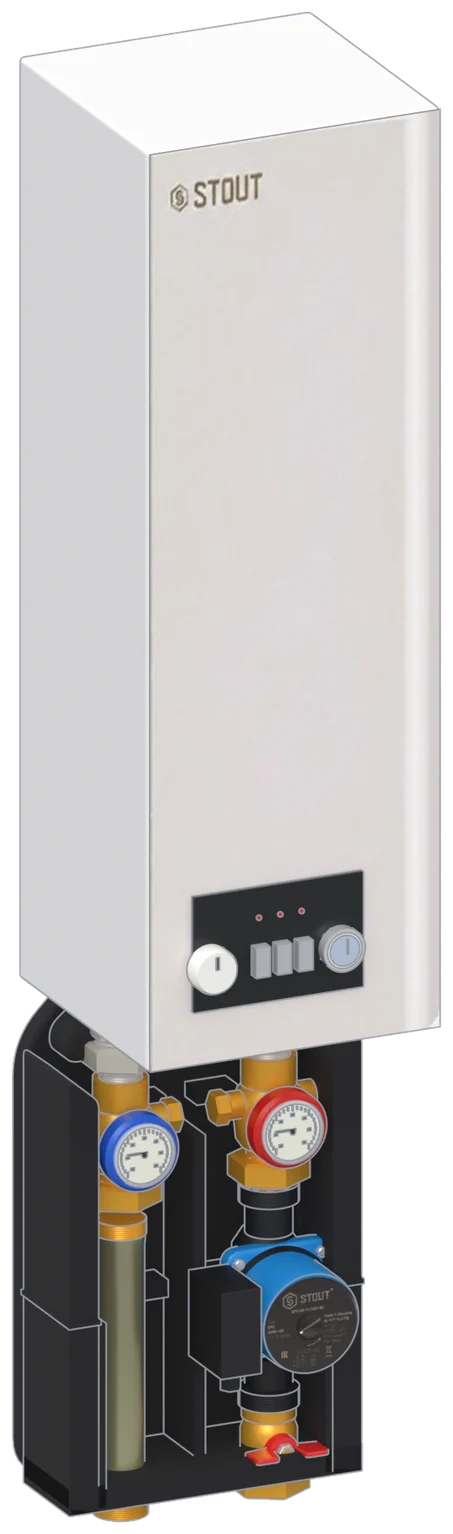
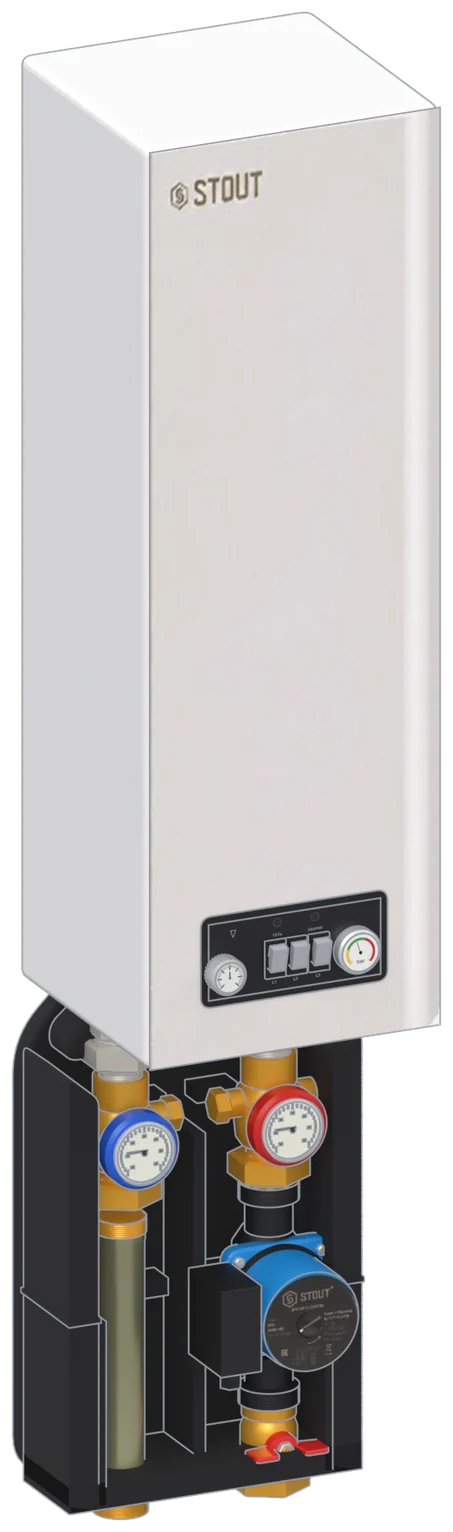
Схема POLIS: панель управления по фронтальному чертежу паспорта (плита 157x74, ручка, клавиши L1-L3, манометр с зонами, гермовводы), скруглённый корпус; кадры polis и polis_r пересобраны

diff --git a/tools/render_boiler_node.py b/tools/render_boiler_node.py
@@ -45,6 +45,10 @@ import bpy
 _argv = sys.argv[sys.argv.index('--') + 1:]
 OUT, VAR = _argv[0], _argv[1]
 TAG = 'boiler_' + VAR
+# HC_FRONT=1 — вид строго спереди (лист сверки с фото каталога, в кадры сметы не идёт)
+if os.environ.get('HC_FRONT'):
+    import blender_parts as _bp
+    _bp.VIEW_DIR = (0.0, -1.0, 0.0001)
 # «…_rm» — смета ROMMER: кран RBV-0004 с красной бабочкой (фото каталога RBV-0004-2210220), остальное то же
 RM = VAR.endswith('_rm')
 VAR = VAR[:-3] if RM else VAR
@@ -499,29 +503,36 @@ def boiler_polis(zb):
     part('mf')
     m = mat('bwhite', rough=0.35, coat=0.4)
     yr = YW - 0.012
-    plan = rounded([(0.0, yr - (D_ - 0.012)), (W_, yr - (D_ - 0.012)), (W_, yr), (0.0, yr)], 0.006, seg=4)
-    prism('корпус котла', plan, H_, m, Matrix.Translation(Vector((0, 0, zb + H_ / 2))), bevel=0.003)
+    plan = rounded([(0.0, yr - (D_ - 0.012)), (W_, yr - (D_ - 0.012)), (W_, yr), (0.0, yr)], 0.012, seg=6)
+    prism('корпус котла', plan, H_, m, Matrix.Translation(Vector((0, 0, zb + H_ / 2))), bevel=0.006)
     yf = yr - (D_ - 0.012)
     photo_quad('фасад POLIS', os.path.join(TEXD, 'SEB-5101_front.png'), (0, 0, 380, 1154), (W_ / 2, yf - 0.0008, zb + H_ / 2),
                TO_XZ, W_ - 0.002, H_ - 0.002, (380, 1154))
     marks['mf'] = (W_ * 0.35, yf, zb + H_ * 0.55)
-    # панель управления (паспорт, рис. 1 и 10; фото каталога): чёрная рамка, слева ручка термостата, три клавиши
-    # переключателя ступеней мощности, справа манометр
+    # панель управления (паспорт, рис. 1 и 10; фото каталога): плита с надписями — наклейка из tools/make_boiler_faces.py,
+    # ручка термостата, три клавиши, манометр — объёмные детали с нарисованными шкалами
     yp = yf - 0.0008
-    blk = mat('bpanel', rough=0.4, coat=0.2)
-    pz = zb + 0.092
-    box('панель управления', (0.143, 0.004, 0.094), blk, (0.108, yp - 0.002, pz))
-    zk = zb + 0.081
-    lathe('ручка термостата', [(0.0, 0), (0.0185, 0), (0.0185, 0.012), (0.0165, 0.016), (0.0, 0.016)], mat('dial', rough=0.45),
-          (0.049, yp - 0.004, zk), '-Y', segs=48, ribs=(24, 0.05, 0.001, 0.010))
-    box('метка ручки', (0.0025, 0.0006, 0.010), mat('logo', rough=0.4), (0.049, yp - 0.0206, zk + 0.008))
-    for k, x in enumerate((0.091, 0.109, 0.127)):
-        box('клавиша %d' % (k + 1), (0.012, 0.009, 0.024), mat('grey', rough=0.45), (x, yp - 0.0085, zk))
-        lathe('индикатор %d' % (k + 1), [(0.0, 0), (0.0020, 0), (0.0020, 0.0012)], mat('redring', rough=0.4), (x, yp - 0.0042, zk + 0.034), '-Y', segs=12)
-    lathe('манометр', [(0.0, 0), (0.0175, 0), (0.0175, 0.010), (0.0, 0.010)], M_CHROME(), (0.159, yp - 0.004, zk), '-Y', segs=48)
-    lathe('шкала манометра', [(0.0, 0), (0.0145, 0)], mat('dial', rough=0.3), (0.159, yp - 0.0143, zk), '-Y', segs=48)
-    box('стрелка манометра', (0.0012, 0.0006, 0.012), mat('logo', rough=0.4), (0.1612, yp - 0.0147, zk + 0.003))
-    lathe('зелёная зона', [(0.0095, 0), (0.0125, 0)], mat('bscreen', rough=0.4), (0.159, yp - 0.0146, zk), '-Y', segs=48)
+    zt = zb + 0.1187                                    # верх плиты (фронтальный чертёж паспорта, рис. 10: плита 157 x 74, низ в 45 от низа котла)
+    X0 = 0.044                                          # левый край плиты
+    plate = rounded([(0.0, 0.0), (0.157, 0.0), (0.157, 0.074), (0.0, 0.074)], 0.009, seg=6)
+    prism('плита панели', [(X0 + u, v) for u, v in plate], 0.0016, mat('bpanel', rough=0.4), Matrix.Translation(Vector((0, yp - 0.0008, zt - 0.074))) @ TO_XZ, bevel=0.0004)
+    # наклейка с надписями — внутри скруглённой плиты (поля по 6 мм), чтобы углы не выступали
+    photo_quad('панель управления', os.path.join(TEXD, 'SEB-5101_panel.png'), (48, 48, 1208, 544), (X0 + 0.0785, yp - 0.0017, zt - 0.037), TO_XZ, 0.145, 0.062, (1256, 592))
+    yq = yp - 0.0020
+    knob = mat('grey', rough=0.35)
+    zkn, zgg, zsw = zt - 0.046, zt - 0.0435, zt - 0.0414
+    lathe('ручка термостата', [(0.0, 0), (0.0145, 0), (0.0145, 0.013), (0.0132, 0.0145), (0.0, 0.0145)], knob, (X0 + 0.017, yq, zkn), '-Y', segs=96, ribs=(32, 0.04, 0.0, 0.012))
+    photo_disc('шкала ручки', os.path.join(TEXD, 'SEB-5101_knob.png'), (256, 256, 256, 256), (X0 + 0.017, yq - 0.0147, zkn), '-Y', 0.0120, size=(512, 512))
+    for k, x in enumerate((0.0614, 0.0793, 0.0982)):
+        box('основание клавиши L%d' % (k + 1), (0.0165, 0.003, 0.030), mat('bpanel', rough=0.4), (X0 + x, yq - 0.0015, zsw))
+        ob = box('клавиша L%d' % (k + 1), (0.0125, 0.007, 0.020), mat('grey', rough=0.45), (X0 + x, yq - 0.0060, zsw + 0.002))
+        ob.rotation_euler = (math.radians(14), 0, 0)
+    lathe('оправа манометра', [(0.0, 0), (0.0178, 0), (0.0178, 0.009), (0.0162, 0.0105), (0.0, 0.0105)], M_CHROME(), (X0 + 0.129, yq, zgg), '-Y', segs=96)
+    photo_disc('шкала манометра', os.path.join(TEXD, 'SEB-5101_gauge.png'), (256, 256, 256, 256), (X0 + 0.129, yq - 0.0109, zgg), '-Y', 0.0153, size=(512, 512))
+    # вводы кабелей снизу (рис. 1, поз. 29-31): три чёрных гермоввода слева, шаг 32
+    for k in range(3):
+        lathe('гермоввод %d' % (k + 1), [(0.0, 0), (0.0100, 0), (0.0100, 0.010), (0.0075, 0.014), (0.0, 0.014)], mat('black', rough=0.6),
+              (0.029, YW - 0.012 - 0.100 - 0.032 * k, zb), '-Z', segs=24)
     for x in (0.061, 0.186):
         lathe('патрубок котла G1', [(0.0140, 0), (0.0140, 0.006)] + thread(0.0166, 0.026, start=0.006), M_NICKEL(), (x, YA, zb), '-Z', segs=40)
 

diff --git a/tools/make_boiler_faces.py b/tools/make_boiler_faces.py
@@ -35,3 +35,90 @@ t = d.transform((380, 1154), Image.QUAD, (177, 45, 177, 515, 357, 570, 357, 88),
 t.paste(t.crop((0, 700, 380, 880)), (0, 920))
 t.save(os.path.join(TEX, 'SEB-5101_front.png'))
 print('ok')
+
+
+# ───────── POLIS: панель управления рисуется заново (фото снято под углом, ручка и манометр на нём объёмные) ─────────
+# Раскладка — по фото каталога SEB-5101 и рис. 1/10 паспорта: плита 143 x 94 мм, слева ручка термостата Ø40 с белым
+# маркером над ней, три клавиши 1-2-3 (над ними «СЕТЬ» и «АВАРИЯ» с лампами), справа манометр Ø38 с цветными зонами.
+from PIL import ImageDraw, ImageFont
+import math as _m
+
+
+def _font(px, bold=False):
+    for f in ('arialbd.ttf' if bold else 'arial.ttf', 'DejaVuSans-Bold.ttf' if bold else 'DejaVuSans.ttf'):
+        try:
+            return ImageFont.truetype(f, px)
+        except OSError:
+            pass
+    return ImageFont.load_default()
+
+
+def polis_panel():
+    """Плита 157 x 74 мм по фронтальному чертежу паспорта (рис. 10, вид спереди): слева ручка термостата, над ней
+    указатель, три клавиши L1-L3 (над первой и третьей — кольцевые лампы «СЕТЬ» и «АВАРИЯ»), справа манометр."""
+    k = 8                                               # пикселей на мм
+    W, H = 157 * k, 74 * k
+    S = 2                                               # сглаживание
+    im = Image.new('RGB', (W * S, H * S), (238, 236, 234))
+    d = ImageDraw.Draw(im)
+    d.rounded_rectangle((0, 0, W * S - 1, H * S - 1), radius=9 * k * S, fill=(16, 16, 18))
+    d.rounded_rectangle((1.6 * k * S, 1.6 * k * S, W * S - 1.6 * k * S, H * S - 1.6 * k * S), radius=7.5 * k * S, outline=(34, 34, 38), width=2 * S)
+    P = lambda x, y: (x * k * S, y * k * S)
+    white, grey = (226, 226, 224), (150, 150, 152)
+    # указатель над ручкой (на чертеже — контурный треугольник, чуть правее оси ручки)
+    d.polygon([P(26.6, 19.5), P(24.2, 13.5), P(29.0, 13.5)], outline=white, width=2 * S)
+    # кольцевые лампы и подписи над клавишами
+    for x in (64, 95.6):
+        d.ellipse((P(x - 3.4, 12.8 - 3.4), P(x + 3.4, 12.8 + 3.4)), outline=(110, 110, 116), width=2 * S, fill=(26, 26, 30))
+    f = _font(int(2.9 * k * S), True)
+    for txt, x in (('СЕТЬ', 64), ('АВАРИЯ', 95.6)):
+        w = d.textlength(txt, font=f)
+        d.text((x * k * S - w / 2, 21 * k * S), txt, font=f, fill=grey)
+    # обозначения фаз под клавишами
+    f2 = _font(int(3.4 * k * S), True)
+    for n, x in zip(('L1', 'L2', 'L3'), (61.4, 79.3, 98.2)):
+        w = d.textlength(n, font=f2)
+        d.text((x * k * S - w / 2, 59 * k * S), n, font=f2, fill=grey)
+    im.resize((W, H), Image.LANCZOS).save(os.path.join(TEX, 'SEB-5101_panel.png'))
+
+
+def polis_knob():
+    """Лицо ручки термостата: белый диск, крупные риски по дуге 270°, указатель-метка (на малом диске цифры не читаются)."""
+    N, S = 512, 2
+    im = Image.new('RGB', (N * S, N * S), (232, 232, 230))
+    d = ImageDraw.Draw(im)
+    c = N * S / 2
+    for i in range(0, 31):
+        a = _m.radians(-135 + 9 * i)
+        big = i % 5 == 0
+        r0, r1 = (0.55 if big else 0.70) * c, 0.90 * c
+        d.line([(c + r0 * _m.sin(a), c - r0 * _m.cos(a)), (c + r1 * _m.sin(a), c - r1 * _m.cos(a))], fill=(55, 55, 60), width=(20 if big else 10) * S)
+    d.line([(c, c), (c, c - 0.42 * c)], fill=(55, 55, 60), width=22 * S)
+    d.ellipse((c - 0.10 * c, c - 0.10 * c, c + 0.10 * c, c + 0.10 * c), fill=(120, 120, 124))
+    im.resize((N, N), Image.LANCZOS).save(os.path.join(TEX, 'SEB-5101_knob.png'))
+
+
+def polis_gauge():
+    """Лицо манометра: белый диск, дуга зон (жёлтая, зелёная, красная), риски, чёрная стрелка, надпись bar."""
+    N, S = 512, 2
+    im = Image.new('RGB', (N * S, N * S), (240, 240, 238))
+    d = ImageDraw.Draw(im)
+    c = N * S / 2
+    for a0, a1, col in ((-135, -70, (232, 196, 40)), (-70, 20, (60, 160, 70)), (20, 135, (200, 40, 36))):
+        d.arc((c - 0.80 * c, c - 0.80 * c, c + 0.80 * c, c + 0.80 * c), a0 - 90, a1 - 90, fill=col, width=int(0.14 * c))
+    for i in range(0, 28):
+        a = _m.radians(-135 + 10 * i)
+        r0, r1 = (0.58 if i % 3 == 0 else 0.64) * c, 0.68 * c
+        d.line([(c + r0 * _m.sin(a), c - r0 * _m.cos(a)), (c + r1 * _m.sin(a), c - r1 * _m.cos(a))], fill=(60, 60, 64), width=4 * S)
+    f = _font(int(0.14 * N * S), True)
+    w = d.textlength('bar', font=f)
+    d.text((c - w / 2, c + 0.30 * c), 'bar', font=f, fill=(60, 60, 64))
+    a = _m.radians(-20)
+    d.line([(c - 0.12 * c * _m.sin(a), c + 0.12 * c * _m.cos(a)), (c + 0.62 * c * _m.sin(a), c - 0.62 * c * _m.cos(a))], fill=(15, 15, 18), width=9 * S)
+    d.ellipse((c - 0.09 * c, c - 0.09 * c, c + 0.09 * c, c + 0.09 * c), fill=(15, 15, 18))
+    im.resize((N, N), Image.LANCZOS).save(os.path.join(TEX, 'SEB-5101_gauge.png'))
+
+
+polis_panel()
+polis_knob()
+polis_gauge()
